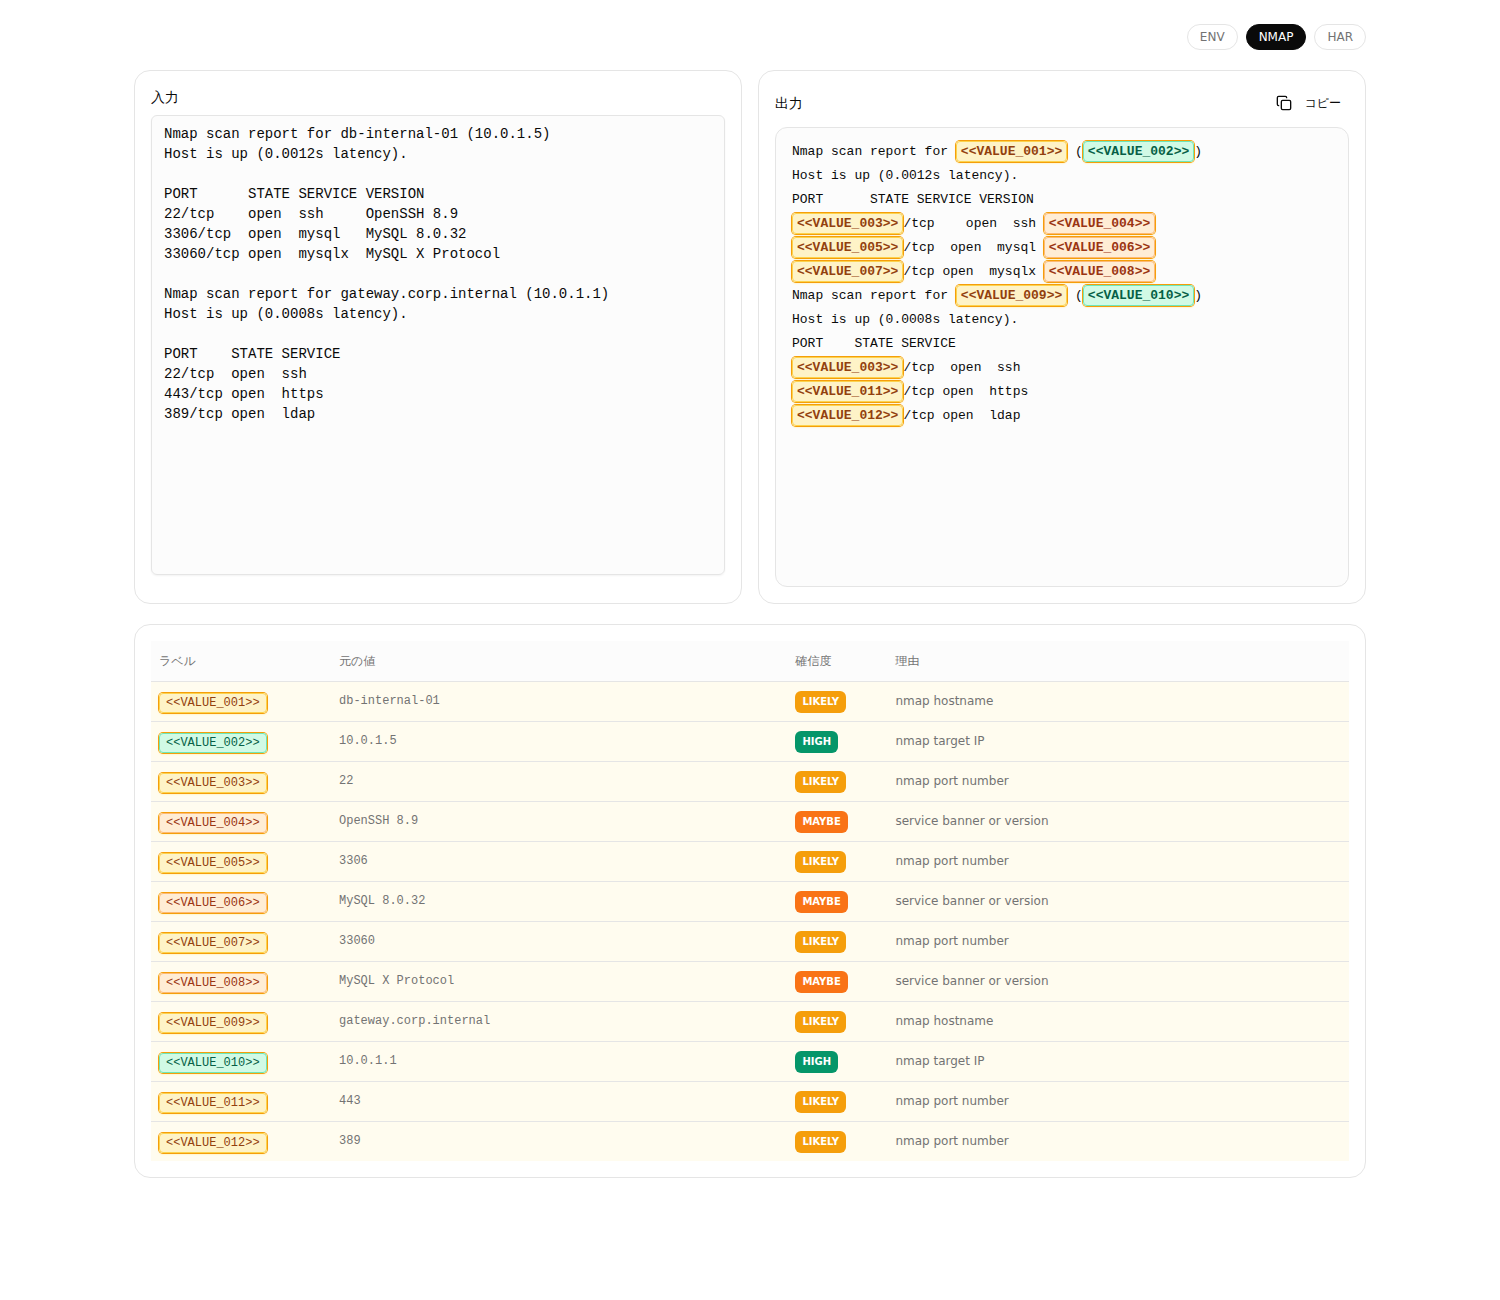
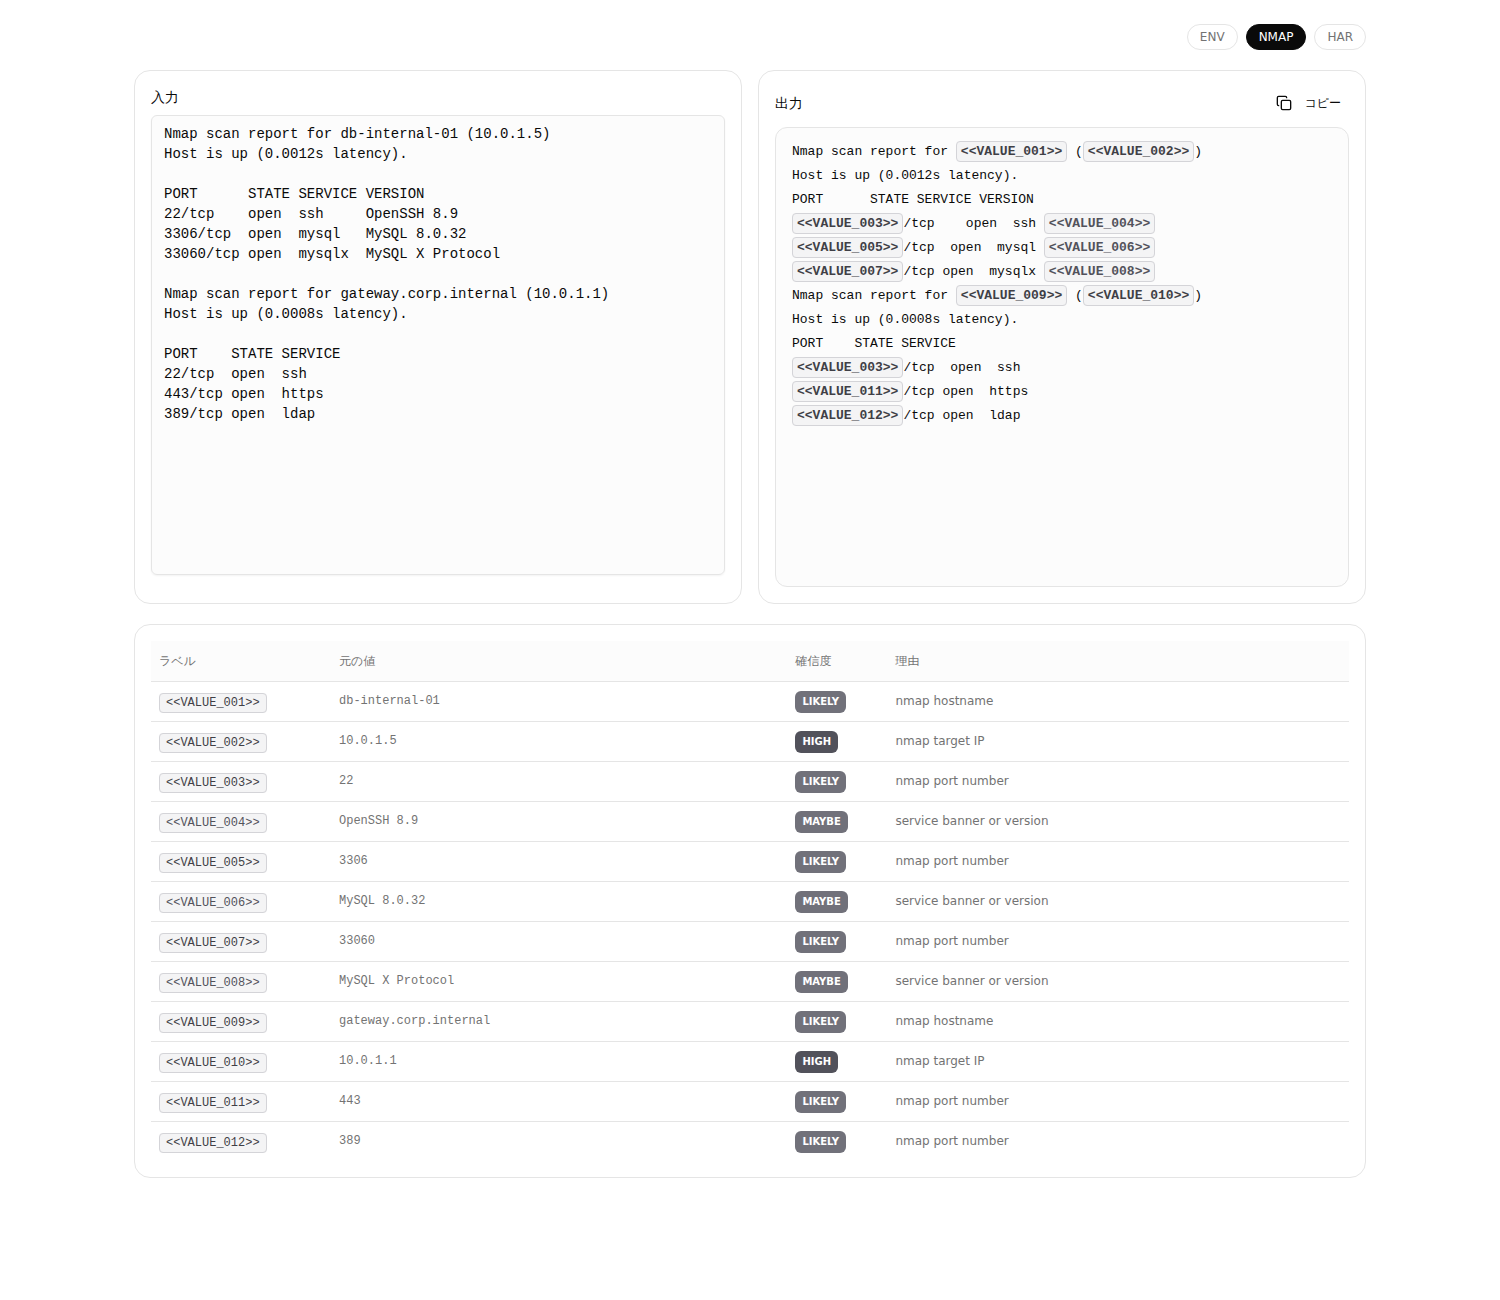
Remove color highlights and active states from labels

diff --git a/src/App.tsx b/src/App.tsx
@@ -68,22 +68,22 @@ const CONFIDENCE_COLORS: Record<
   { bg: string; text: string; border: string; badge: string }
 > = {
   HIGH: {
-    bg: "bg-emerald-100",
-    text: "text-emerald-800",
-    border: "border-emerald-300",
-    badge: "bg-emerald-600 text-white",
+    bg: "bg-zinc-100",
+    text: "text-zinc-700",
+    border: "border-zinc-300",
+    badge: "bg-zinc-600 text-white",
   },
   LIKELY: {
-    bg: "bg-amber-100",
-    text: "text-amber-800",
-    border: "border-amber-300",
-    badge: "bg-amber-500 text-white",
+    bg: "bg-zinc-100",
+    text: "text-zinc-700",
+    border: "border-zinc-300",
+    badge: "bg-zinc-500 text-white",
   },
   MAYBE: {
-    bg: "bg-orange-100",
-    text: "text-orange-800",
-    border: "border-orange-300",
-    badge: "bg-orange-500 text-white",
+    bg: "bg-zinc-100",
+    text: "text-zinc-600",
+    border: "border-zinc-300",
+    badge: "bg-zinc-500 text-white",
   },
   UNKNOWN: {
     bg: "bg-zinc-100",
@@ -152,7 +152,7 @@ function renderHighlightedFragments(
         key={`${keyPrefix}:${index}`}
         title={mapping ? `${mapping.original} | ${mapping.reason}` : part.text}
         className={`inline px-1 py-0.5 rounded-sm border font-semibold  ${colors.bg} ${colors.text} ${colors.border} ${
-          isActive ? "ring-1 ring-amber-500 shadow-sm shadow-amber-200" : ""
+          isActive ? "" : ""
         }`}
       >
         {part.text}
@@ -173,32 +173,22 @@ function HighlightedOutput({
   text,
   mappings,
   activeLabels,
-  scanStartLine,
-  scanEndLine,
 }: {
   text: string;
   mappings: Mapping[];
   activeLabels: string[];
-  scanStartLine: number | null;
-  scanEndLine: number | null;
+  scanStartLine?: number | null;
+  scanEndLine?: number | null;
 }) {
   const lines = text.split(/\r?\n/);
 
   return (
     <pre className="m-0 whitespace-pre-wrap break-all font-mono text-[13px] leading-6">
       {lines.map((line, index) => {
-        const isScanning =
-          scanStartLine !== null &&
-          scanEndLine !== null &&
-          index >= scanStartLine &&
-          index <= scanEndLine;
-
         return (
           <span
             key={index}
-            className={`relative block px-1  ${
-              isScanning ? "bg-amber-100" : ""
-            }`}
+            className="relative block px-1"
           >
             <span className="relative">
               {renderHighlightedFragments(line, mappings, activeLabels, `line-${index}`)}
@@ -457,13 +447,13 @@ export default function App() {
                     <TableRow
                       key={`${mapping.label}:${mapping.original}`}
                       className={` ${
-                        isActive ? "bg-amber-50/80" : ""
+                        ""
                       }`}
                     >
                       <TableCell className="py-2">
                         <code
                           className={`rounded-sm border px-1.5 py-0.5 text-xs  ${colors.bg} ${colors.text} ${colors.border} ${
-                            isActive ? "ring-1 ring-amber-500 shadow-sm shadow-amber-200" : ""
+                            isActive ? "" : ""
                           }`}
                         >
                           {mapping.label}
